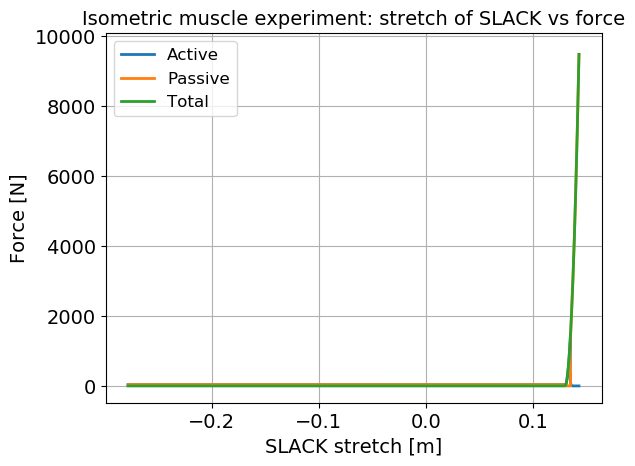
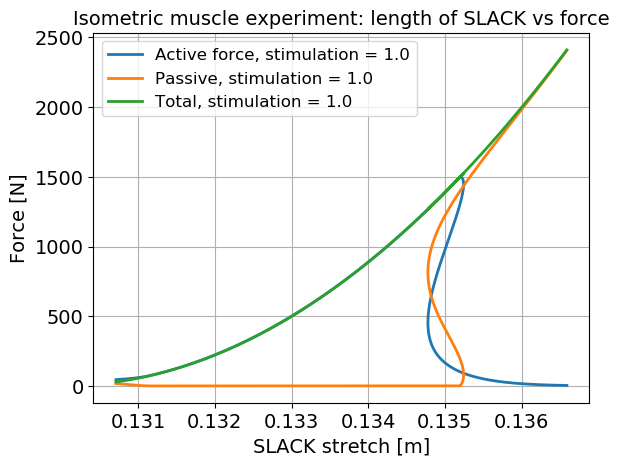
Better graphs

diff --git a/LAB05/Python/exercise1.py b/LAB05/Python/exercise1.py
@@ -27,8 +27,8 @@ plt.figure(figsize=(8.0, 5.0))      # figure size in inches
 
 
 class TimeParameters:
-
     """Used to pass the time infos for the simulation in an easier way"""
+
     def __init__(self, t_start=0.0, t_stop=0.2, t_step=0.001):
         self.t_start = t_start
         self.t_stop = t_stop
@@ -37,7 +37,8 @@ class TimeParameters:
 
 
 def find_ce_stretch_iso(muscle_sys, ce_stretch, time_param, stimulation=1, error_max=0.01):
-    """Finds the total relative stretch to apply to obtain ce_stretch in isometric mode"""
+    """Finds the total stretch [m] to apply to obtain a certain ce_stretch(relative) in isometric mode"""
+
     stretch = 0
     # The stretch is constant for over compression (i.e[0,sth]) hence we wanna monitor this to avoid being
     # in a regime where the computations are biased.
@@ -63,9 +64,18 @@ def find_ce_stretch_iso(muscle_sys, ce_stretch, time_param, stimulation=1, error
     return stretch
 
 
-def plot_all_force_vs_stretch(active_force, passive_force, total_force, stretch, title, x_label, handle=None):
-
-    force_labels = ['Active force, stimulation = 1.', 'Passive, stimulation = 1.', 'Total, stimulation = 1.']
+def plot_all_force_vs_stretch(active_force, passive_force, total_force, stretch, title, x_label, handle=None,
+                              stimulation=1.):
+    """
+    Plots the 3 forces (active, passive and total) against the stretch.
+    Parameters:
+        - title: title of the graph
+        - x_label: x_label of the graph
+        - handle: hadle of the graph. If None title will be used as handle
+    """
+    force_labels = ['Active force, stimulation = {}'.format(stimulation),
+                    'Passive, stimulation = {}'.format(stimulation),
+                    'Total, stimulation = {}'.format(stimulation)]
     if handle is None:
         handle = title
 
@@ -87,11 +97,13 @@ def add_force_to_plot(handle, force, l):
     plt.grid()
 
 
-def plot_isometric_data(active_force, passive_force, total_force, l_ce, l_slack, l_mtc, handle=None):
-
+def plot_isometric_data(active_force, passive_force, total_force, l_ce, l_slack, l_mtc, handle, l_opt=None):
+    """
+    Plots three graphs (function of l_ce, l_mtc and l_ce)
+    """
     plot_all_force_vs_stretch(active_force, passive_force, total_force, l_ce,
                               'Isometric muscle experiment: length of contractile element vs force',
-                              'Length of the contractile element stretch [m]',
+                              'Stretch of the contractile element [m]',
                               handle=handle[0])
     plot_all_force_vs_stretch(active_force, passive_force, total_force, l_slack,
                               'Isometric muscle experiment: length of SLACK vs force', 'SLACK stretch [m]',
@@ -99,9 +111,20 @@ def plot_isometric_data(active_force, passive_force, total_force, l_ce, l_slack,
     plot_all_force_vs_stretch(active_force, passive_force, total_force, l_mtc,
                               'Isometric muscle experiment: stretch of TOTAL MUSCLE vs force', 'TOTAL stretch [m]',
                               handle=handle[2])
+    add_l_opt_marker(handle[0], l_opt)
 
 
-def equalize_axis(handles):
+def add_l_opt_marker(handle, l_opt=None):
+
+    if l_opt is None:
+        muscle_parameters = MuscleParameters()
+        l_opt = muscle_parameters.l_opt
+    plt.figure(handle)
+    plt.axvline(x=l_opt, color="k")
+    plt.text(l_opt+0.001, 1500, "L_opt", rotation=-90, color="k")
+
+
+def get_common_axis_limits(handles):
     x_min = math.inf
     x_max = -math.inf
     y_min = math.inf
@@ -116,10 +139,7 @@ def equalize_axis(handles):
         y_min = min(y_min, y_bot)
         y_max = max(y_max, y_top)
 
-    for handle in handles:
-        plt.figure(handle)
-        plt.xlim(x_min, x_max)
-        plt.ylim(y_min, y_max)
+    return x_min, x_max, y_min, y_max
 
 
 def iso_experiment(muscle_stimulation=1., ce_stretch_max=1.5, ce_stretch_min=0.5, nb_pts=1000,
@@ -204,9 +224,10 @@ def exercise1b(time_param):
 
     # region Figure initialisation
     figure_handles = ["1_b_lce_stimulation", "1_b_lsl_stimulation", "1_b_lmtc_stimulation"]
-    figure_titles = ["Stimulation variation CE stretch vs force", "Stimulation variation SLACK stretch vs force",
+    figure_titles = ["Isometric experiment: length of contractile element vs force",
+                     "Stimulation variation SLACK stretch vs force",
                      "Stimulation variation total stretch vs force"]
-    figure_x_label = ["CE stretch [m]", "SLACK stretch [m]", "TOTAL stretch [m]"]
+    figure_x_label = ["Stretch of the contractile element [m]", "SLACK stretch [m]", "TOTAL stretch [m]"]
     force_legends = []
     for handle, title, x_label in zip(figure_handles, figure_titles, figure_x_label):
         plt.figure(handle)
@@ -222,45 +243,62 @@ def exercise1b(time_param):
                                                                                         ce_stretch_max,
                                                                                         ce_stretch_min, nb_pts,
                                                                                         time_param)
+        # adding active force
         lengths = [l_ce, l_slack, l_mtc]
-        force_legends.append("Passive force, stimulation ={}".format(stim))
-        force_legends.append("Active force, stimulation ={}".format(stim))
+        force_legends.append("Active force, stimulation={}".format(stim))
         # Plots
         for handle, length in zip(figure_handles, lengths):
-            add_force_to_plot(handle, passive_force, length)
             add_force_to_plot(handle, active_force, length)
+
+    # Adding passive force only once
+    for handle, length in zip(figure_handles, lengths):
+        add_force_to_plot(handle, passive_force, length)
+    force_legends.append("Passive force (not stimulation dependent)")
 
     for handle in figure_handles:
         plt.figure(handle)
         plt.legend(force_legends)
+        plt.grid()
+
+    add_l_opt_marker(figure_handles[0])
     # endregion
 
 
 def exercise1c(time_param):
-
-    l_opt_1 = 0.5
-    l_opt_2 = 0.25
+    pylog.info("part C")
+    l_opt_long = 0.5
+    l_opt_small = 0.25
     stim = 1.
-    ce_stretch_max = 2
-    ce_stretch_min = 0.1
+    ce_stretch_max = 1.5
+    ce_stretch_min = 0.5
     nb_pts = 1000
     handles_long = ["1_c_lce_iso_long", "1_c_lsl_iso_long", "1_c_lmtc_long"]
     handles_small = ["1_c_lce_iso_small", "1_c_lsl_iso_small", "1_c_lmtc_small"]
-    active_force_1, passive_force_1, total_force_1, l_ce_1, l_slack_1, l_mtc_1 = iso_experiment(stim,
-                                                                                                ce_stretch_max,
-                                                                                                ce_stretch_min, nb_pts,
-                                                                                                time_param, l_opt_1)
-    active_force_2, passive_force_2, total_force_2, l_ce_2, l_slack_2, l_mtc_2 = iso_experiment(stim,
-                                                                                                ce_stretch_max,
-                                                                                                ce_stretch_min, nb_pts,
-                                                                                                time_param, l_opt_2)
+    handles_merged = ["1_c_lce_iso_merged", "1_c_lsl_iso_merged", "1_c_lmtc_merged"]
 
-    plot_isometric_data(active_force_1, passive_force_1, total_force_1, l_ce_1, l_slack_1, l_mtc_1, handle=handles_long)
-    plot_isometric_data(active_force_2, passive_force_2, total_force_2, l_ce_2, l_slack_2, l_mtc_2,
-                        handle=handles_small)
+    active_force_long, passive_force_long, total_force_long, l_ce_long, l_slack_long, l_mtc_long = \
+        iso_experiment(stim, ce_stretch_max, ce_stretch_min, nb_pts, time_param, l_opt_long)
+    active_force_small, passive_force_small, total_force_small, l_ce_small, l_slack_small, l_mtc_small = \
+        iso_experiment(stim, ce_stretch_max, ce_stretch_min, nb_pts, time_param, l_opt_small)
 
-    for graph_couple in zip(handles_long, handles_small):
-        equalize_axis(graph_couple)
+    # Separated plots
+    plot_isometric_data(active_force_long, passive_force_long, total_force_long, l_ce_long, l_slack_long, l_mtc_long,
+                        handle=handles_long, l_opt=l_opt_long)
+    plot_isometric_data(active_force_small, passive_force_small, total_force_small, l_ce_small, l_slack_small,
+                        l_mtc_small, handle=handles_small, l_opt=l_opt_small)
+
+    # Merged Plots
+    plot_isometric_data(active_force_long, passive_force_long, total_force_long, l_ce_long, l_slack_long, l_mtc_long,
+                        handle=handles_merged, l_opt=l_opt_long)
+    plot_isometric_data(active_force_small, passive_force_small, total_force_small, l_ce_small, l_slack_small,
+                        l_mtc_small, handle=handles_merged, l_opt=l_opt_small)
+    for graphs in zip(handles_long, handles_small, handles_merged):
+        x_min, x_max, y_min, y_max = get_common_axis_limits(graphs[0:1])
+        plt.figure(graphs[2])
+        print(x_min, x_max, y_min, y_max)
+        plt.xlim(x_min, x_max)
+        plt.ylim(y_min, y_max)
+        plt.grid()
 
 
 def exercise1d():
@@ -342,9 +380,9 @@ def exercise1():
     pylog.info("Start exercise 1")
     time_param = TimeParameters(0.0, 0.2, 0.001)
 
-    exercise1a(time_param)
+    # exercise1a(time_param)
     # exercise1b(time_param)
-    # exercise1c(time_param)
+    exercise1c(time_param)
     # exercise1d()
 
     if DEFAULT["save_figures"] is False:
